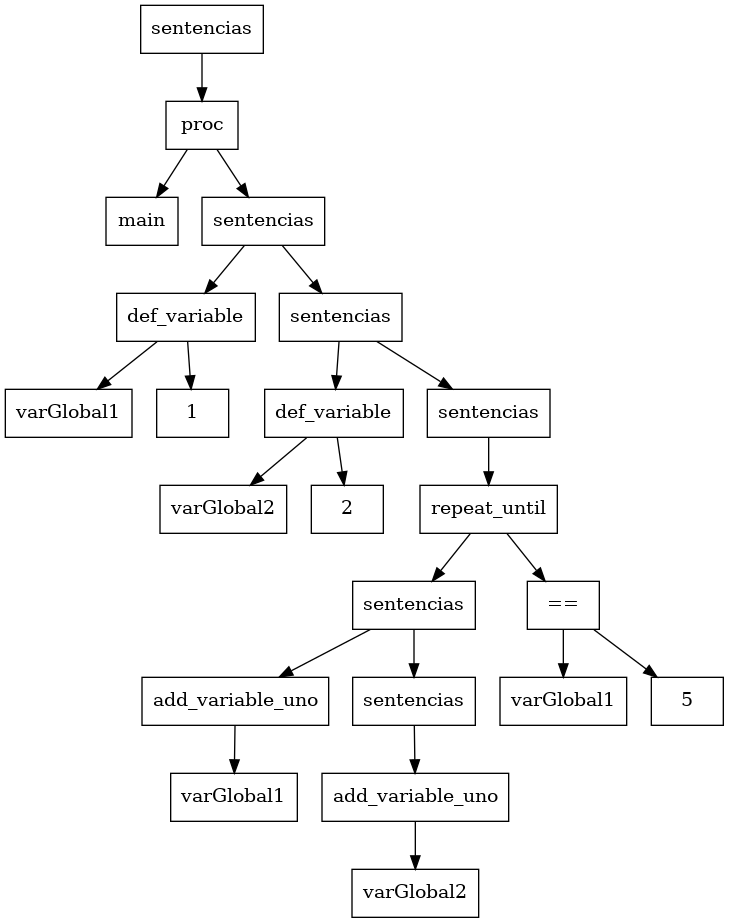
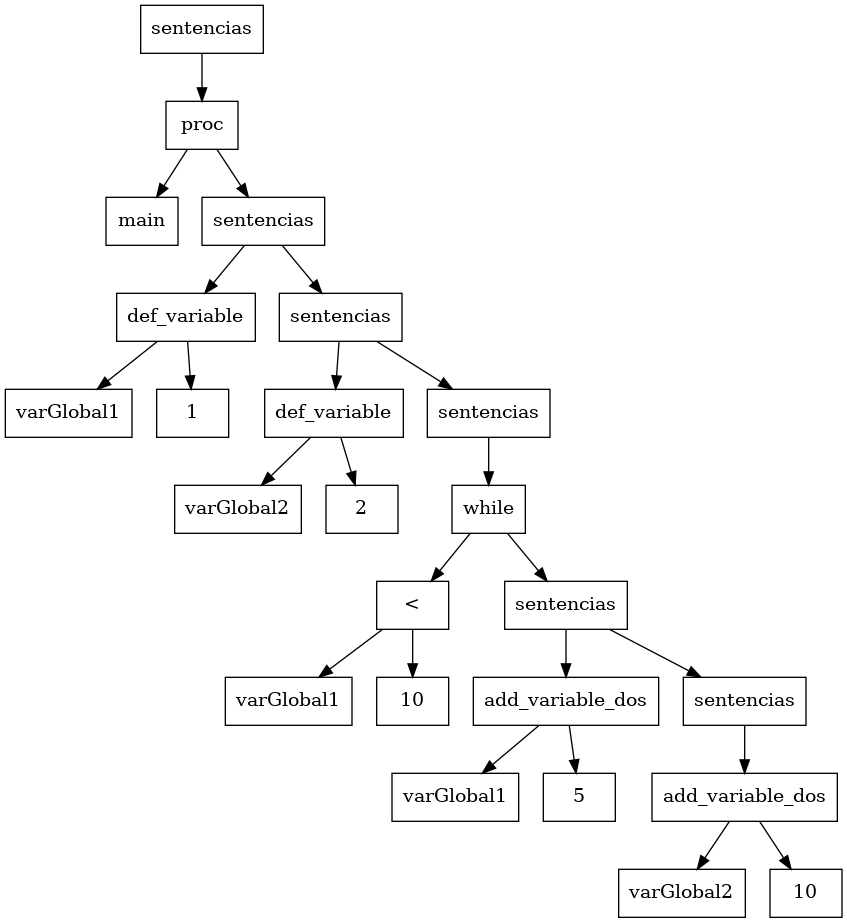
Se agrego el while loop

diff --git a/generator.py b/generator.py
@@ -44,6 +44,8 @@ class CodeGenerator:
             self.generar_case(nodo)
         elif tipo == 'repeat_until':
             self.generar_repeat_until(nodo)
+        elif tipo == 'while':
+            self.generar_while(nodo)
         elif tipo == 'add_variable_dos' and isinstance(nodo[2], int):
             self.add_variable_dos(nodo)
         elif tipo == 'add_variable_dos' and isinstance(nodo[2], str):
@@ -284,6 +286,59 @@ class CodeGenerator:
 
         # Posicionar en el bloque de salida
         self.builder.position_at_end(bloque_salida)
+    
+    def generar_while(self, nodo):
+        # Nodo tiene la forma ('while', 'condición', 'instrucciones')
+        condicion = nodo[1]
+        instrucciones = nodo[2]
+
+        # Crear el bloque de la condición y el bloque del cuerpo del while
+        bloque_condicion = self.builder.append_basic_block("while_condicion")
+        bloque_cuerpo = self.builder.append_basic_block("while_body")
+        bloque_salida = self.builder.append_basic_block("end_while")
+
+        # Saltar al bloque de la condición
+        self.builder.branch(bloque_condicion)
+
+        # Posicionar en el bloque de la condición
+        self.builder.position_at_end(bloque_condicion)
+
+        # Generar la condición
+        var_nombre = condicion[1]
+        operador = condicion[0]
+        valor_condicion = ir.Constant(ir.IntType(32), 10)  # Suponemos que la comparación es con el valor 10
+        variable = self.variables.get(var_nombre)
+
+        if not variable:
+            print(f"Variable {var_nombre} no encontrada.")
+            return
+
+        valor_variable = self.builder.load(variable, name=f"{var_nombre}_valor")
+
+        # Dependiendo del operador, generar la comparación
+        if operador == '==':
+            comparacion = self.builder.icmp_signed('==', valor_variable, valor_condicion)
+        elif operador == '>':
+            comparacion = self.builder.icmp_signed('>', valor_variable, valor_condicion)
+        elif operador == '<':
+            comparacion = self.builder.icmp_signed('<', valor_variable, valor_condicion)
+        else:
+            raise ValueError(f"Operador {operador} no soportado.")
+
+        # Bifurcar condicionalmente: si la condición es verdadera, vamos al cuerpo, si no, al final
+        self.builder.cbranch(comparacion, bloque_cuerpo, bloque_salida)
+
+        # Posicionar en el bloque del cuerpo
+        self.builder.position_at_end(bloque_cuerpo)
+
+        # Generar las instrucciones dentro del cuerpo del while
+        self.visitar(instrucciones)
+
+        # Al final del cuerpo, saltar de vuelta a la condición
+        self.builder.branch(bloque_condicion)
+
+        # Posicionar en el bloque de salida
+        self.builder.position_at_end(bloque_salida)    
 
 
     def add_variable_dos(self, nodo):
@@ -365,11 +420,12 @@ ast = ('sentencias',
             ('sentencias', 
                 ('def_variable', 'varGlobal1', 1), 
                 ('def_variable', 'varGlobal2', 2), 
-                ('repeat_until', 
+                ('while', 
+                    ('<', 'varGlobal1', 10), 
                     ('sentencias', 
-                        ('add_variable_uno', 'varGlobal1'), 
-                        ('add_variable_uno', 'varGlobal2')), 
-                    ('==', 'varGlobal1', 5)))))
+                        ('add_variable_dos', 'varGlobal1', 5), 
+                        ('add_variable_dos', 'varGlobal2', 10))))))
+
 
 
 # Crear el generador y generar código

diff --git a/semantico.py b/semantico.py
@@ -595,13 +595,13 @@ class AnalizadorSemantico:
             elif operacion == 'or':
                 result = self.analizar_or(nodo[1], alcance)
             elif operacion == '<' or operacion == '>' or operacion == '==' or operacion == '<=' or operacion == '>=':
-                result = self.verificar_operacion_booleana(nodo[-1], alcance)
-
-            for i in range(len(self.extraer_sentencias(nodo))):
-                sentencia = self.extraer_sentencias(nodo)[i]
-                print("sentencia: ", sentencia)
-                self.analizar(sentencia, alcance)
-            self.analizar_while(nodo, alcance)
+                result = self.verificar_operacion_booleana(nodo[1], alcance)
+            
+            if result:
+                for i in range(len(self.extraer_sentencias(nodo))):
+                    sentencia = self.extraer_sentencias(nodo)[i]
+                    self.analizar(sentencia, alcance)
+                self.analizar_while(nodo, alcance)
 
     def analizar_repeat(self, nodo, alcance):
         operacion = nodo[-1][0]
@@ -1132,17 +1132,18 @@ if __name__ == "__main__":
     from sintactico import parser
 
     data = '''
-     //comentario
+      //comentario
     Proc main()
         [
             // Define variable global
             Def(varGlobal1, 1);
             Def(varGlobal2, 2);
-            Repeat
-                [Add(varGlobal1);
-                 Add(varGlobal2);]
-            Until
-                [varGlobal1 == 5];
+            While [varGlobal1 < 10]
+                [
+                Add(varGlobal1, 5);
+                Add(varGlobal2, 10);
+                ]
+            Whend;
         ];
     End;
     '''

diff --git a/sintactico.py b/sintactico.py
@@ -376,12 +376,14 @@ if __name__ == "__main__":
             // Define variable global
             Def(varGlobal1, 1);
             Def(varGlobal2, 2);
-            Sum(varGlobal1, 2)
-            Sum(varGlobal1)
-            Sum(varGlobal1, varGlobal2)
+            While [varGlobal1 < 10]
+                [
+                Add(varGlobal1, 5);
+                Add(varGlobal2, 10);
+                ]
+            Whend;
         ];
     End;
-
     '''
     
     analizar_sintactico(data)
